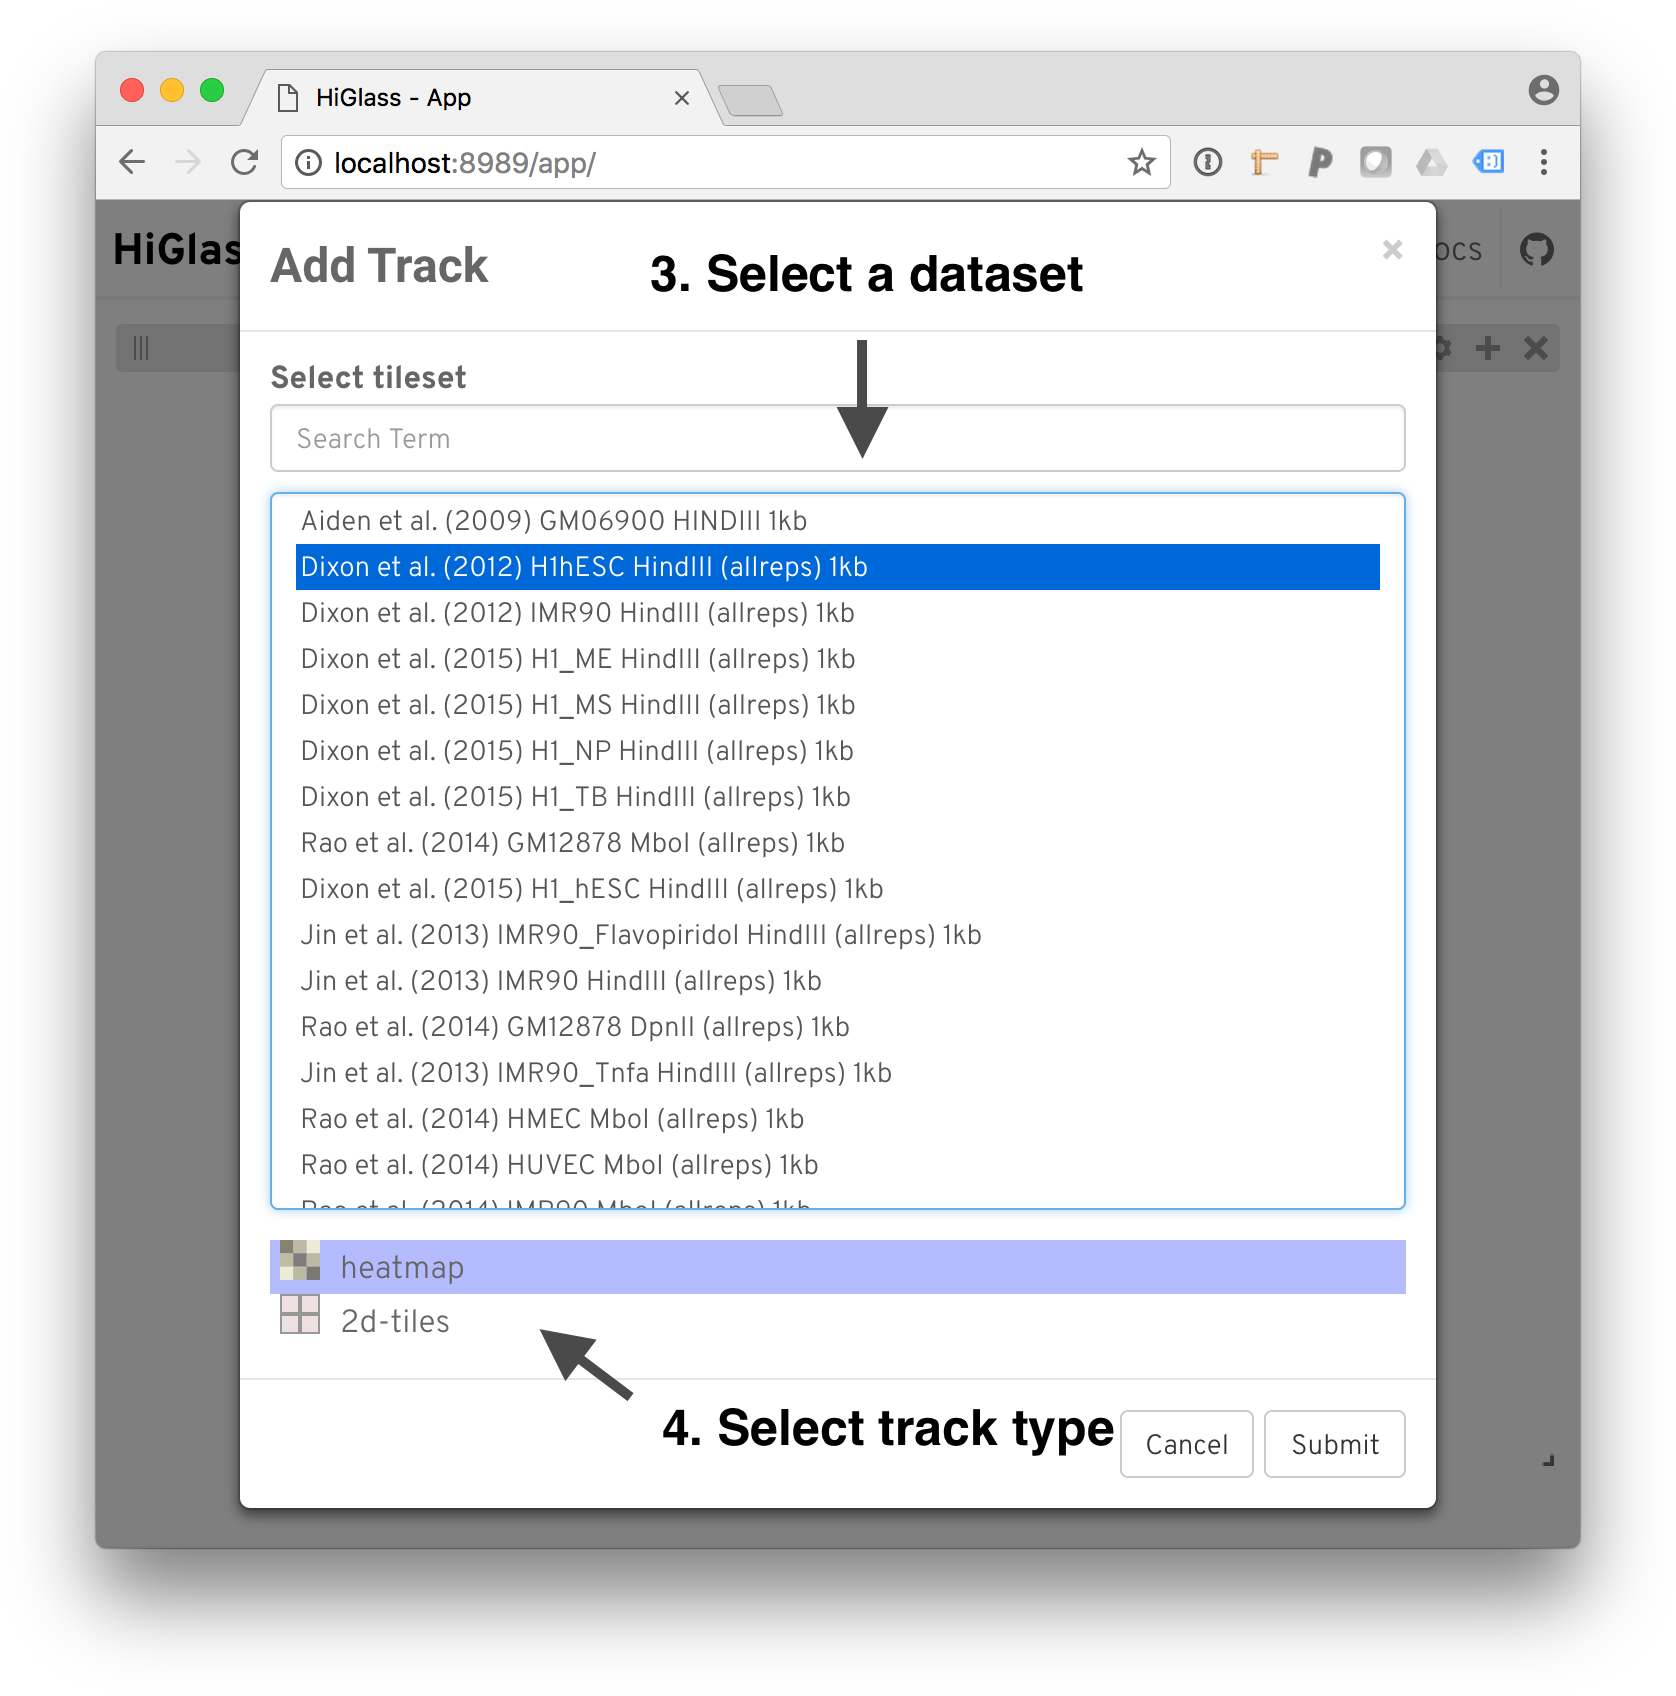
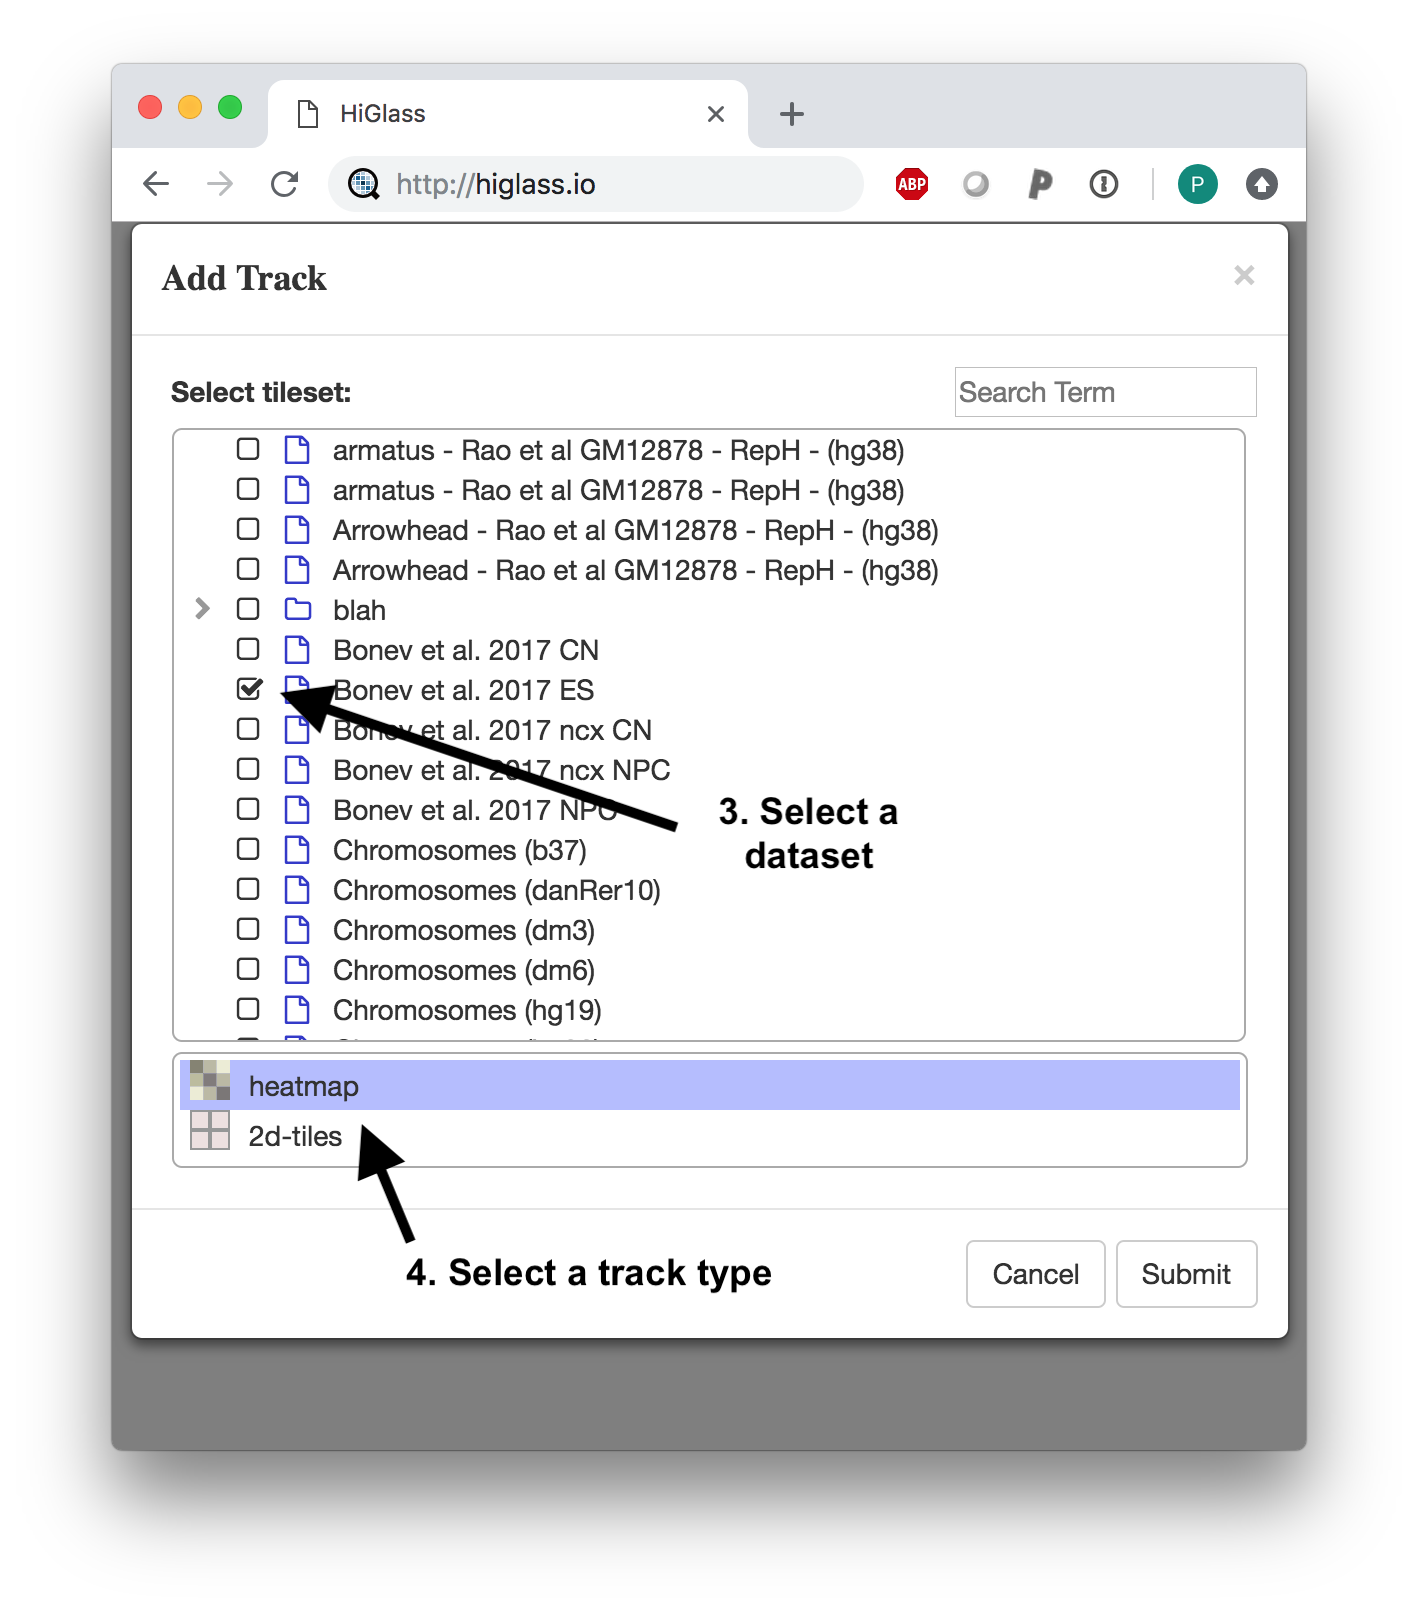
Add nested checkboxes so that tilesets can be grouped in the Add Track Dialog
* Started adding the nested checkbox

* Items are loaded into the checkbox

* Added track tests

* Nested checkboxes working, tests need to be updated

* Fixed tests for the new nested checkbox tileset finder

* Removed fontawesome from karma config

* Updated the CHANGELOG

* Add documentation

* Removed the dependency on font-awesome

* Responding to Fritz's comments

* Remove errant 0

diff --git a/higlass_server.rst b/higlass_server.rst
@@ -176,26 +176,41 @@ To modify a tileset name, specify the tileset `uuid` in the URL, use the `PATCH`
       
 Management commands 
 ^^^^^^^^^^^^^^^^^^^ 
- The following commands may be run while logged into a non-Docker HiGlass instance and offer functionality to list and manipulate tileset records.  
- To retrieve a list of available tilesets: 
 
- .. code-block:: bash 
+The following commands may be run while logged into a non-Docker HiGlass
+instance and offer functionality to list and manipulate tileset records.
 
-     python manage.py list_tilesets 
+Ingesting data:
+
+.. code-block:: bash
+
+  python manage.py ingest_tileset --filename my.cool --filetype cooler --datatype matrix \
+    --project-name "Experiment 3" --coordSystem hg19
+
+Use the filename parameter to indicate where the data file resides, the filetype to tell
+the server how to read the data, the datatype to tell the client how it can be displayed,
+the coordinate system to indicate which chromosome sizes to use, and the project name to
+group it with other tilesets (available in v1.3.0 and above).
+
+To retrieve a list of available tilesets:
+
+.. code-block:: bash 
+
+  python manage.py list_tilesets 
       
 To modify the name of a tileset:  
 
- .. code-block:: bash 
+.. code-block:: bash 
 
-     python manage.py modify_tileset --uuid=${uuid} --name=${name}  
+  python manage.py modify_tileset --uuid=${uuid} --name=${name}  
       
 .. note::  At this time, the `modify_tileset` command only provides the ability to modify the tileset name. Future revisions may provide logic to modify other tileset fields.  
 
  To delete a tileset: 
 
- .. code-block:: bash 
+.. code-block:: bash 
 
-     python manage.py delete_tileset --uuid=${uuid} 
+  python manage.py delete_tileset --uuid=${uuid} 
       
 .. note::  The `delete_tileset` command will delete the tileset record from the database backend. It will also delete the underlying file from the HiGlass server's `media/uploads` folder, and fail if this file cannot be removed.
 
@@ -204,16 +219,16 @@ Testing
 
 .. code-block:: bash
 
-    python manage.py test tilesets --failfast
+  python manage.py test tilesets --failfast
 
 Or to test a more specific code block:
 
 .. code-block:: bash
 
-    python manage.py test tilesets.tests.CoolerTest.test_transforms --failfast
+  python manage.py test tilesets.tests.CoolerTest.test_transforms --failfast
 
 Tests of deletion and modification routes:  
 
- .. code-block:: bash 
+.. code-block:: bash 
 
-    python manage.py test tilesets.tests.PermissionsTest
+  python manage.py test tilesets.tests.PermissionsTest

diff --git a/tutorial.rst b/tutorial.rst
@@ -59,7 +59,9 @@ Adding data
 
 HiGlass supports a number of `different data types <data_preparation.html>`_. 
 
-Use the ingest command to add new data. Generally data requires a filetype and a datatype. This can sometimes (i.e. in the case of cooler and bigwig files) be inferred from the file itself.
+Use the ingest command to add new data. Generally data requires a filetype and
+a datatype. This can sometimes (i.e. in the case of cooler and bigwig files)
+be inferred from the file itself.
 
 .. code-block:: bash
 
@@ -72,7 +74,18 @@ In other, more ambiguous cases, it needs to be explicitly specified:
     higlass-manage ingest my_file.bed --filetype bedfile \
         --datatype bedlike --assembly hg19
 
-Note that bedfiles don't store chromosome sizes so they need to be passed in using either the ``--assembly`` or ``--chromsizes-filename`` parameters.
+Note that bedfiles don't store chromosome sizes so they need to be passed in
+using either the ``--assembly`` or ``--chromsizes-filename`` parameters.
+
+Project Names
+^^^^^^^^^^^^^
+
+As of v1.3, HiGlass lets you group tilesets together as projects. To use
+this functionality, use the `--project-name` parameter with the `ingest`
+command. If multiple tilesets are assigned the same project name, they
+will appear together in the "Add Track Dialog" of the HiGlass client.
+
+.. image:: img/add_track_groups.png
 
 Viewing data in the client
 --------------------------
